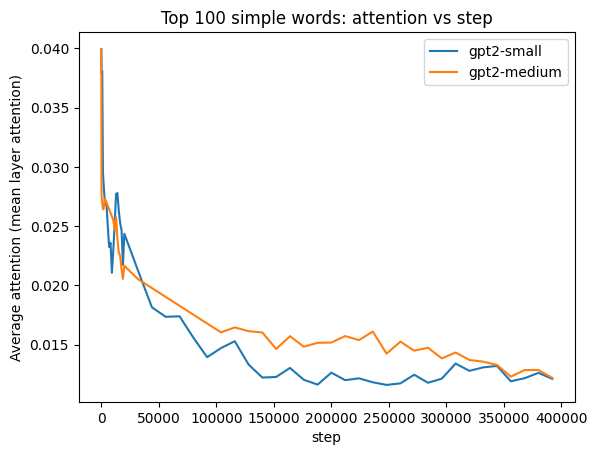
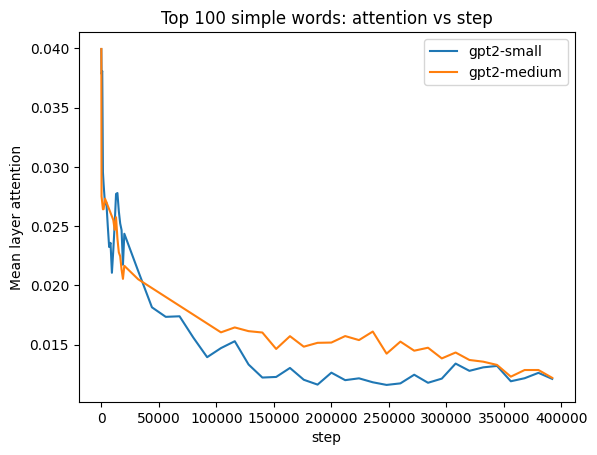
fixed plots

Changed region(s): [[0.0, 0.1538, 0.0603, 0.8]]

diff --git a/src/experiments/plot.py b/src/experiments/plot.py
@@ -269,7 +269,7 @@ def main():
                 f"  medium_thr_bits_mean={med_mean:.4f}, std={med_std:.4f}, min={med_min:.4f}, max={med_max:.4f}\n"
             )
 
-        fout.write("\nAverage attention (mean layer attention) for top-k simple words:\n")
+        fout.write("\nMean layer attention for top-k simple words:\n")
         for k in ks:
             words_k = simple_ranking[:k]
             avg_small_act = compute_avg_series(small_act, words_k)
@@ -279,7 +279,7 @@ def main():
             plt.plot(steps_small, avg_small_act, label="gpt2-small")
             plt.plot(steps_medium, avg_medium_act, label="gpt2-medium")
             plt.xlabel(f"{label_type_small or 'step'}")
-            plt.ylabel("Average attention (mean layer attention)")
+            plt.ylabel("Mean layer attention")
             plt.title(f"Top {k} simple words: attention vs {label_type_small or 'step'}")
             plt.legend()
             out_path = os.path.join(args.out_dir, f"avg_attention_top{k}.png")
